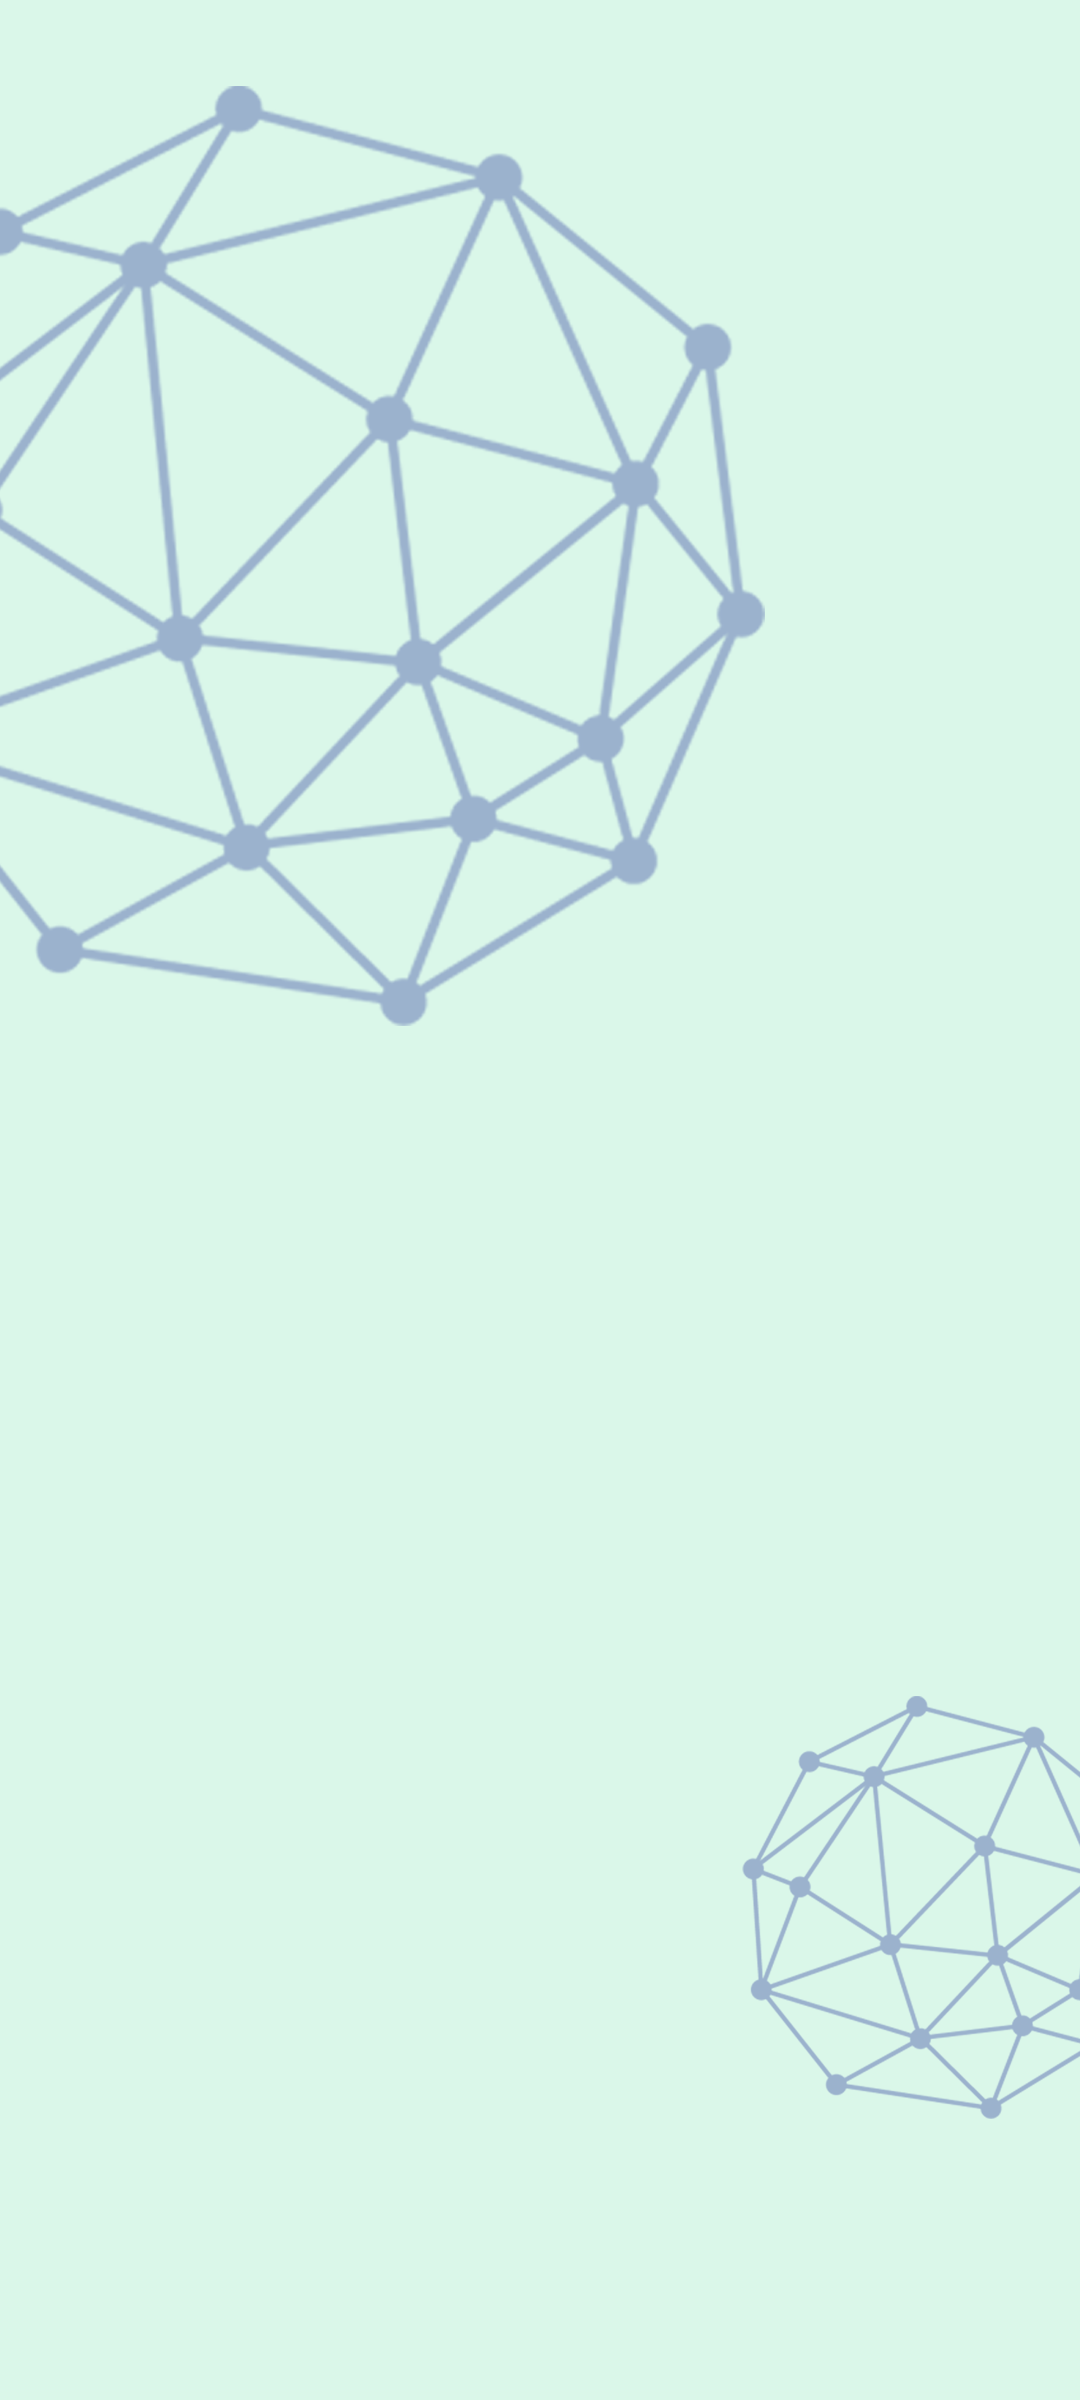
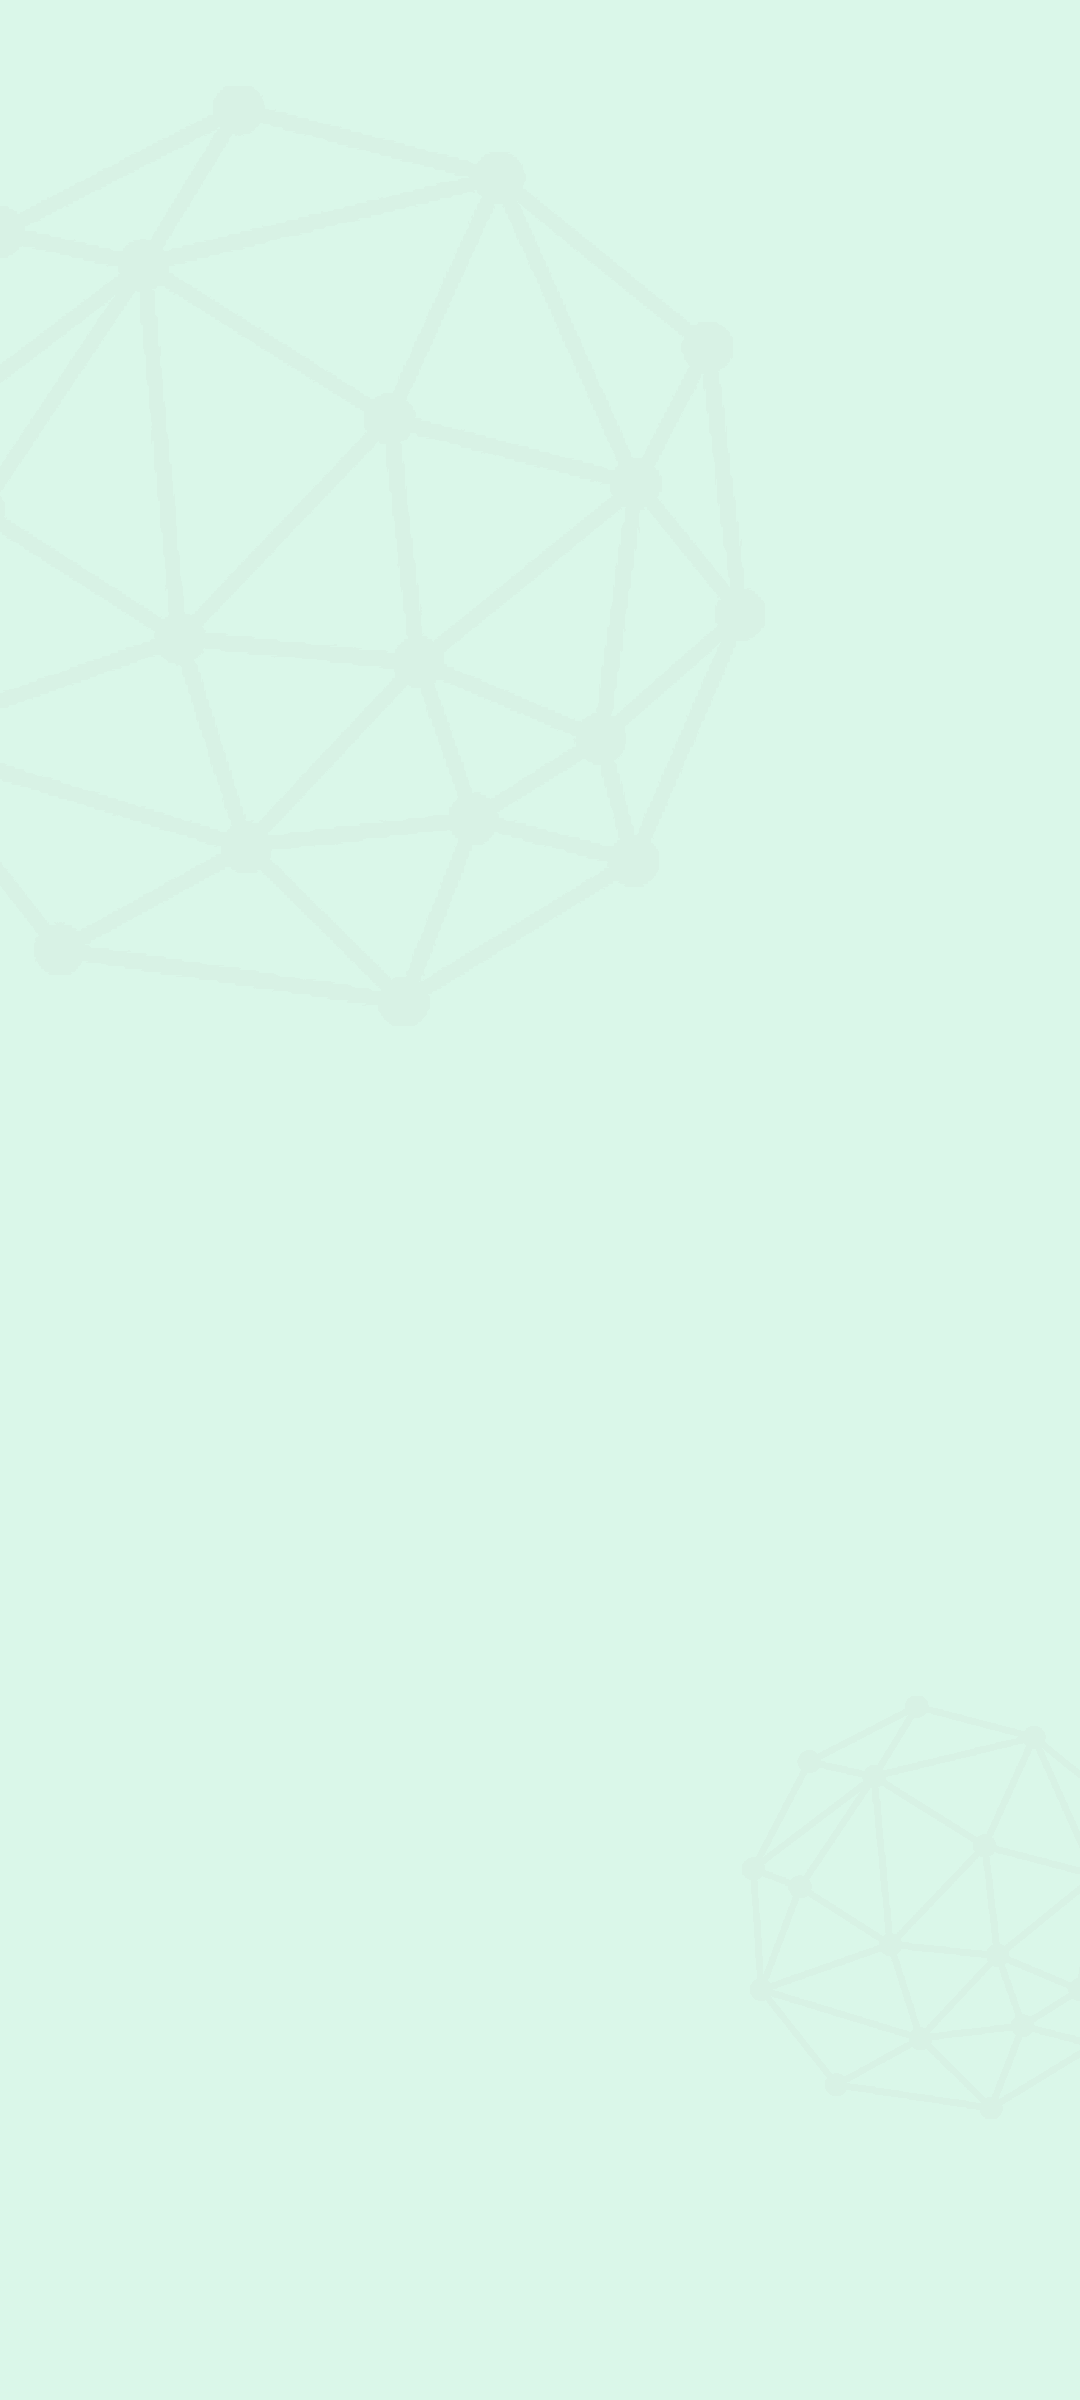
add comemented by

Changed region(s): [[0.0, 0.0312, 0.7028, 0.4375], [0.6722, 0.6875, 1.0, 0.9062], [0.0, 0.2812, 0.1528, 0.375]]

diff --git a/lib/services/auth_service.dart b/lib/services/auth_service.dart
@@ -17,8 +17,8 @@ class AuthService {
           )
           .timeout(const Duration(seconds: 10));
 
-      print('Status Code Login: ${response.statusCode}');
-      print('Response Body Login: ${response.body}');
+      // print('Status Code Login: ${response.statusCode}');
+      // print('Response Body Login: ${response.body}');
 
       if (response.statusCode == 200 || response.statusCode == 201) {
         final Map<String, dynamic> body = jsonDecode(response.body);
@@ -29,9 +29,10 @@ class AuthService {
         if (token != null && token.isNotEmpty) {
           final prefs = await SharedPreferences.getInstance();
           await prefs.setString('jwt_token', token);
-          print('✅ SUCCESS: Token berhasil tersimpan -> $token');
+          await prefs.setString('user_email', email);
+          // print('✅ SUCCESS: Token berhasil tersimpan -> $token');
         } else {
-          print('❌ ERROR: Key access_token tidak ditemukan di response!');
+          // print('❌ ERROR: Key access_token tidak ditemukan di response!');
         }
 
         return LoginResponse.fromJson(body);
@@ -39,7 +40,7 @@ class AuthService {
         throw Exception('Login gagal (Status: ${response.statusCode})');
       }
     } catch (e) {
-      print('Detail Error Login: $e');
+      // print('Detail Error Login: $e');
       rethrow;
     }
   }
@@ -47,7 +48,13 @@ class AuthService {
   static Future<String?> getToken() async {
     final prefs = await SharedPreferences.getInstance();
     final token = prefs.getString('jwt_token');
-    print('🔑 Membaca token dari SharedPreferences: $token');
+    // print('🔑 Membaca token dari SharedPreferences: $token');
     return token;
+  }
+
+  static Future<String?> getUserEmail() async {
+    final prefs = await SharedPreferences.getInstance();
+    print('Membaca commented by: $prefs');
+    return prefs.getString('user_email'); // Sesuaikan key simpanan email Anda
   }
 }

diff --git a/lib/screens/ticket/ticket_detail_screen.dart b/lib/screens/ticket/ticket_detail_screen.dart
@@ -2,6 +2,7 @@ import 'package:flutter/material.dart';
 import '../../models/ticket_model.dart';
 import '../../models/ticket_comment_model.dart';
 import '../../services/ticket_service.dart';
+import '../../services/auth_service.dart';
 import '../../widgets/ticket_header_card.dart';
 import '../../widgets/ticket_item_tile.dart';
 
@@ -87,6 +88,7 @@ class _TicketDetailScreenState extends State<TicketDetailScreen> {
     }
   }
 
+  // Update pada method _submitComment() di TicketDetailScreen
   Future<void> _submitComment() async {
     final text = _commentController.text.trim();
     if (text.isEmpty) return;
@@ -94,7 +96,12 @@ class _TicketDetailScreenState extends State<TicketDetailScreen> {
     setState(() => _isSending = true);
 
     try {
-      await _ticketService.addComment(widget.ticket.id, text);
+      // 1. Ambil email user yang sedang login
+      final userEmail = await AuthService.getUserEmail() ?? 'Unknown User';
+
+      // 2. Kirim email tersebut sebagai argumen author ke service
+      await _ticketService.addComment(widget.ticket.id, text, userEmail);
+
       _commentController.clear();
       _loadComments();
     } catch (e) {
@@ -125,7 +132,10 @@ class _TicketDetailScreenState extends State<TicketDetailScreen> {
                 )
               : IconButton(
                   iconSize: 37.0,
-                  icon: const Icon(Icons.cancel_presentation, color: Colors.red),
+                  icon: const Icon(
+                    Icons.cancel_presentation,
+                    color: Colors.red,
+                  ),
                   tooltip: 'Close Ticket',
                   onPressed: _handleCloseTicket,
                 ),

diff --git a/lib/services/ticket_service.dart b/lib/services/ticket_service.dart
@@ -70,7 +70,11 @@ class TicketService {
   }
 
   // Ini methode untuk menambahkan komentar ke tiket
-  Future<void> addComment(String ticketId, String comment) async {
+  Future<void> addComment(
+    String ticketId,
+    String comment,
+    String author, // 👈 Tambahkan parameter author/user
+  ) async {
     try {
       final token = await AuthService.getToken();
 
@@ -84,7 +88,10 @@ class TicketService {
         headers['Authorization'] = 'Bearer $token';
       }
 
-      final body = jsonEncode({'comment': comment});
+      final body = jsonEncode({
+        'comment': comment,
+        'commentedBy': author,
+        });
 
       final response = await http.post(url, headers: headers, body: body);
 

diff --git a/lib/services/api_config.dart b/lib/services/api_config.dart
@@ -3,8 +3,8 @@ class ApiConfig {
   // - Chrome / Web / Desktop : http://localhost:8081
   // - Emulator Android        : http://10.0.2.2:8081
   // - HP Fisik               : http://192.168.x.x:8081 (IP Komputer)
-  // static const String baseUrl = 'http://202.51.103.154:3004/api/v1';
-  static const String baseUrl = 'http://localhost:8081/api/v1';
+  static const String baseUrl = 'http://202.51.103.154:3004/api/v1';
+  // static const String baseUrl = 'http://localhost:8081/api/v1';
 
   // Endpoint Auth
   static const String login = '$baseUrl/auth/authenticate';

diff --git a/lib/models/ticket_comment_model.dart b/lib/models/ticket_comment_model.dart
@@ -18,7 +18,7 @@ class TicketComment {
       id: json['id']?.toString() ?? '',
       ticketId: json['ticketId']?.toString() ?? '',
       comment: json['comment'] ?? '',
-      author: json['author'] ?? json['user'] ?? 'Unknown',
+      author: json['commentedBy'] ?? json['user'] ?? 'Unknown',
       createdAt: json['createdAt']?.toString() ?? '-',
     );
   }
